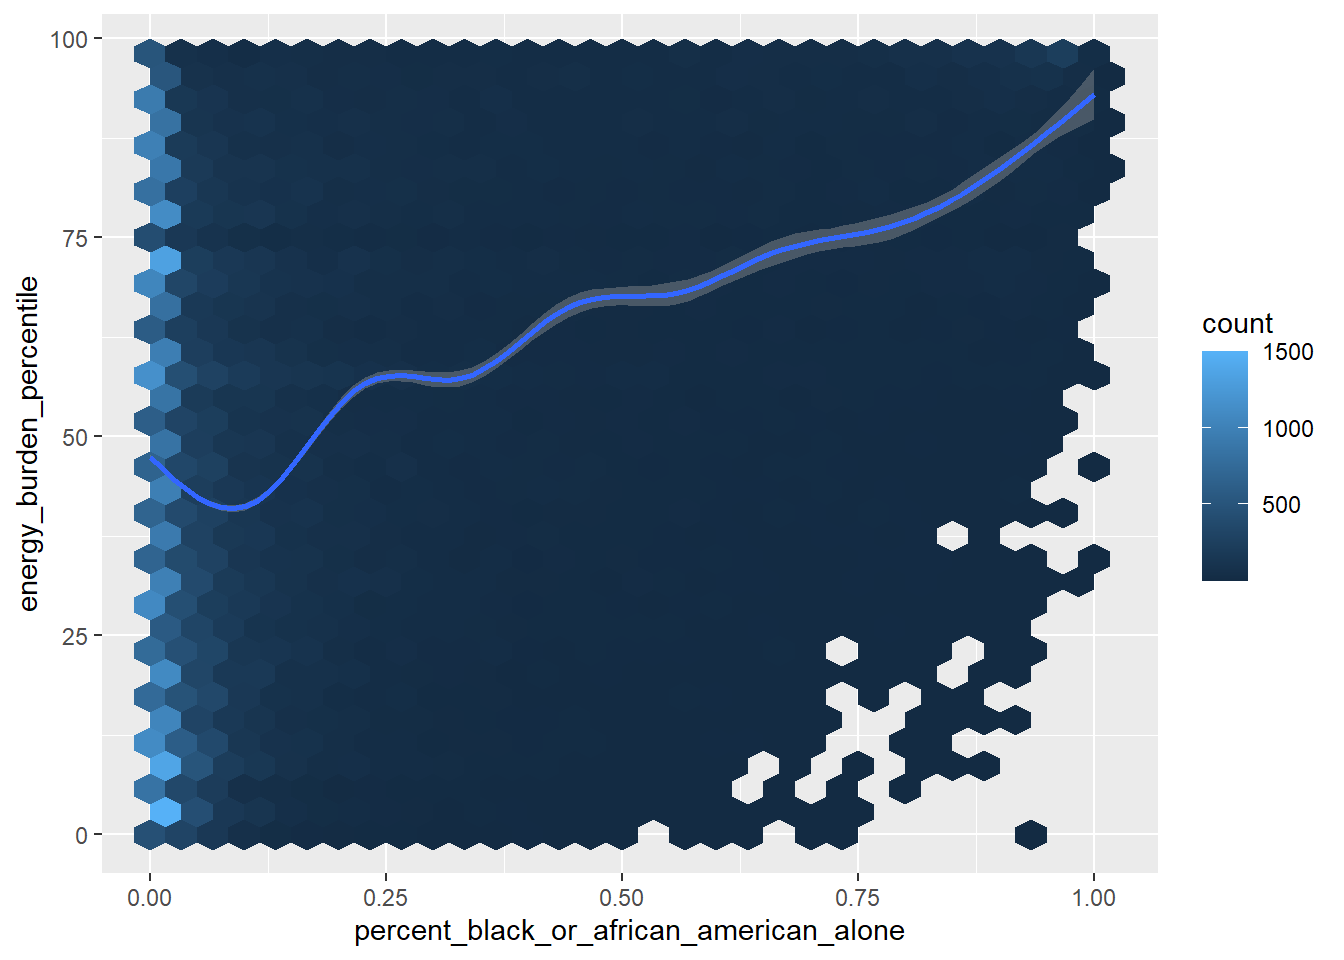
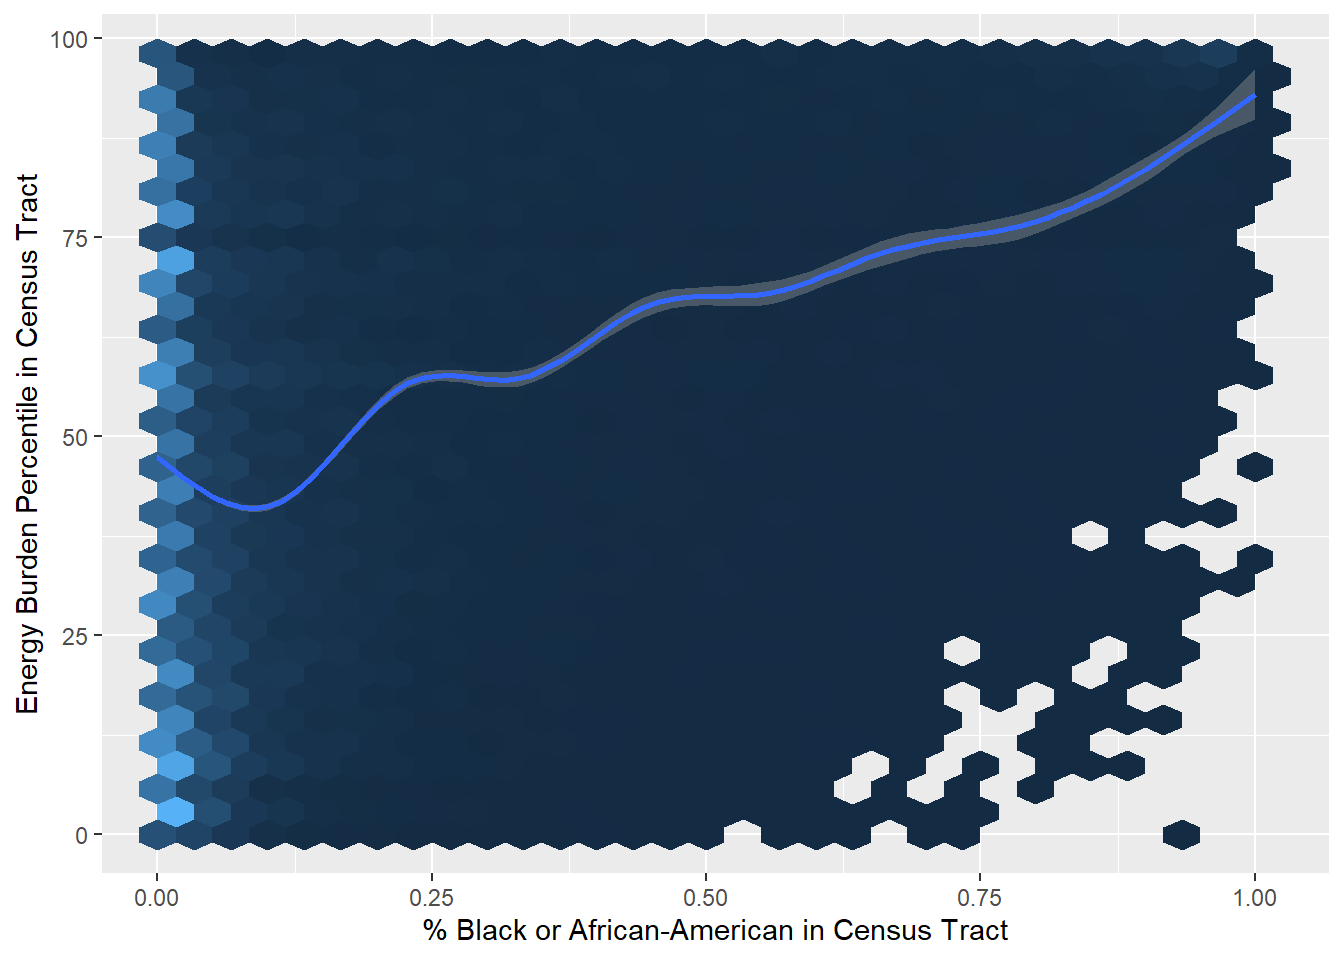
update context

diff --git a/development/context.html b/development/context.html
@@ -106,7 +106,7 @@ pre > code.sourceCode > span > a:first-child::before { text-decoration: underlin
 <h2 class="anchored" data-anchor-id="overview">Overview</h2>
 <p>As climate change continues to impact the world in which we live, numerous initiatives have been started to better understand the influence it has on individuals and communities. One of those initiatives stems directly from an Executive Order (EO) issued by President Joe Biden in January 2021. The EO resulted in the Council on Environmental Quality creating a tool by which the public can track various burdens across a number of communities. The primary aim of the tool is identify and subsequently help communities disadvantaged by these burdens in government social programs.</p>
 <p><a href="https://screeningtool.geoplatform.gov/en/">The Climate and Economic Justice Screening Tool</a> (CEJST) is the result of the EO. While the tool established by the Council on Environmental Quality covers a number of burdens (health, transportation, and workforce development, for example), this activity will focus on the sustainability aspects of the tool, including climate change, energy, and legacy pollution burdens on communities.</p>
-<p>For this activity, we are going to use the CEJST data to explore whether the energy burden percentile increases as the share of population of African-Americans in a census tract increases.</p>
+<p>For this activity, we are going to use the CEJST data to explore whether there is a relationship between the energy burden percentile in census tracts and the share of population of Blacks or African-Americans in census tracts. Below, we will explore the dataset, as well as our variables of interest, in-depth.</p>
 </section>
 <section id="dataset" class="level2">
 <h2 class="anchored" data-anchor-id="dataset">Dataset</h2>
@@ -193,13 +193,13 @@ $ percent_black_or_african_american_alone &lt;dbl&gt; 0.07, 0.57, 0.24, 0.05, 0.
  NA's   :1054             NA's   :745                            </code></pre>
 </div>
 </div>
-<div class="callout callout-style-default callout-tip callout-titled" title="Descriptive Statistics">
+<div class="callout callout-style-default callout-note no-icon callout-titled" title="Synthesizing Descriptive Statistics">
 <div class="callout-header d-flex align-content-center">
 <div class="callout-icon-container">
-<i class="callout-icon"></i>
+<i class="callout-icon no-icon"></i>
 </div>
 <div class="callout-title-container flex-fill">
-Descriptive Statistics
+Synthesizing Descriptive Statistics
 </div>
 </div>
 <div class="callout-body-container callout-body">
@@ -208,21 +208,41 @@ Descriptive Statistics
 </div>
 <p>Next, we can plot the percent of Black or African-Americans against the energy burden percentile to see if there is a negative or positive trend between the two variables.</p>
 <div class="cell">
-<div class="sourceCode cell-code" id="cb9"><pre class="sourceCode r code-with-copy"><code class="sourceCode r"><span id="cb9-1"><a href="#cb9-1" aria-hidden="true" tabindex="-1"></a>df_small <span class="sc">%&gt;%</span> </span>
-<span id="cb9-2"><a href="#cb9-2" aria-hidden="true" tabindex="-1"></a>  <span class="fu">ggplot</span>(<span class="fu">aes</span>(</span>
-<span id="cb9-3"><a href="#cb9-3" aria-hidden="true" tabindex="-1"></a>    percent_black_or_african_american_alone,</span>
-<span id="cb9-4"><a href="#cb9-4" aria-hidden="true" tabindex="-1"></a>    energy_burden_percentile</span>
-<span id="cb9-5"><a href="#cb9-5" aria-hidden="true" tabindex="-1"></a>  )) <span class="sc">+</span></span>
-<span id="cb9-6"><a href="#cb9-6" aria-hidden="true" tabindex="-1"></a>  <span class="fu">geom_hex</span>() <span class="sc">+</span></span>
-<span id="cb9-7"><a href="#cb9-7" aria-hidden="true" tabindex="-1"></a>  <span class="fu">geom_smooth</span>()</span></code><button title="Copy to Clipboard" class="code-copy-button"><i class="bi"></i></button></pre></div>
+<div class="sourceCode cell-code" id="cb9"><pre class="sourceCode r code-with-copy"><code class="sourceCode r"><span id="cb9-1"><a href="#cb9-1" aria-hidden="true" tabindex="-1"></a><span class="co"># Plot relationship</span></span>
+<span id="cb9-2"><a href="#cb9-2" aria-hidden="true" tabindex="-1"></a>p <span class="ot">&lt;-</span> df_small <span class="sc">%&gt;%</span> </span>
+<span id="cb9-3"><a href="#cb9-3" aria-hidden="true" tabindex="-1"></a>  <span class="fu">ggplot</span>(<span class="fu">aes</span>(</span>
+<span id="cb9-4"><a href="#cb9-4" aria-hidden="true" tabindex="-1"></a>    percent_black_or_african_american_alone,</span>
+<span id="cb9-5"><a href="#cb9-5" aria-hidden="true" tabindex="-1"></a>    energy_burden_percentile</span>
+<span id="cb9-6"><a href="#cb9-6" aria-hidden="true" tabindex="-1"></a>  )) <span class="sc">+</span></span>
+<span id="cb9-7"><a href="#cb9-7" aria-hidden="true" tabindex="-1"></a>  <span class="fu">geom_hex</span>() <span class="sc">+</span></span>
+<span id="cb9-8"><a href="#cb9-8" aria-hidden="true" tabindex="-1"></a>  <span class="fu">xlab</span>(<span class="st">"% Black or African-American in Census Tract"</span>) <span class="sc">+</span> </span>
+<span id="cb9-9"><a href="#cb9-9" aria-hidden="true" tabindex="-1"></a>  <span class="fu">ylab</span>(<span class="st">"Energy Burden Percentile in Census Tract"</span>) <span class="sc">+</span></span>
+<span id="cb9-10"><a href="#cb9-10" aria-hidden="true" tabindex="-1"></a>  <span class="fu">geom_smooth</span>()</span>
+<span id="cb9-11"><a href="#cb9-11" aria-hidden="true" tabindex="-1"></a></span>
+<span id="cb9-12"><a href="#cb9-12" aria-hidden="true" tabindex="-1"></a><span class="co"># Remove legend</span></span>
+<span id="cb9-13"><a href="#cb9-13" aria-hidden="true" tabindex="-1"></a>p <span class="sc">+</span> <span class="fu">theme</span>(<span class="at">legend.position =</span> <span class="st">"none"</span>) </span></code><button title="Copy to Clipboard" class="code-copy-button"><i class="bi"></i></button></pre></div>
 <div class="cell-output-display">
 <p><img src="context_files/figure-html/unnamed-chunk-6-1.png" class="img-fluid" width="672"></p>
 </div>
 </div>
+<p>As the figure shows, there is a positive relationship between the percent of Black or African-Americans living in a census tract and the energy burden percentile in the respective census tract.</p>
+<div class="callout callout-style-default callout-note no-icon callout-titled" title="Visualizing Variables of Interest">
+<div class="callout-header d-flex align-content-center">
+<div class="callout-icon-container">
+<i class="callout-icon no-icon"></i>
+</div>
+<div class="callout-title-container flex-fill">
+Visualizing Variables of Interest
+</div>
+</div>
+<div class="callout-body-container callout-body">
+<p>What other ways might we choose to visualize our variables of interest? Is there anything else concerning or interesting based on our visualizations?</p>
+</div>
+</div>
 </section>
-<section id="challenge" class="level2">
-<h2 class="anchored" data-anchor-id="challenge">Challenge</h2>
-<p>Given the current status of sustainability trends among disadvantaged communities, we are going to explore…</p>
+<section id="next-steps" class="level2">
+<h2 class="anchored" data-anchor-id="next-steps">Next Steps</h2>
+<p>We now have a good grasp on our data and the relationship between the percent of Black or African-Americans living in a census tract and the energy burden percentile in the census tract. Next, we will use these data to test hypotheses in both a frequentist and Bayesian framework and compare the two approaches.</p>
 </section>
 
 </main>
